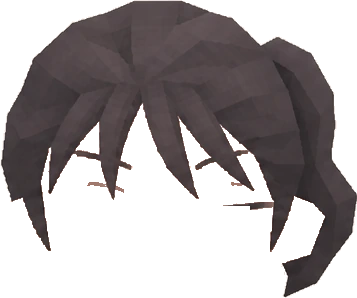
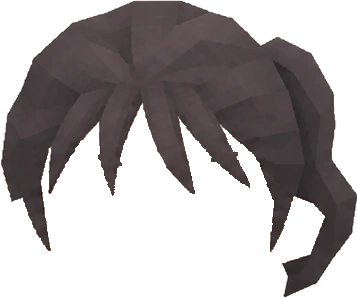
아바타 포니테일: 원본에서 딸려 온 눈썹·속눈썹 획 제거, 귀를 얼굴에 붙여 빈틈 없앰
Claude-Session: https://claude.ai/code/session_016dqJdoQPdKansAm1JAikyV

diff --git a/memory-garden/js/avatar.js b/memory-garden/js/avatar.js
@@ -11,6 +11,8 @@ const LAYERS = {
   blush_g: [111, 267, 206, 31, 156.7, "#c38e84"],
   bottom_b: [87, 535, 247, 276, 81.2, "#4f524f"], bottom_g: [100, 535, 226, 110, 69.5, "#49424c"], bottom_s: [110, 535, 200, 134, 172.8, "#c2a695"],
   braids_g: [46, 273, 319, 259, 126.3, "#8c7876"], ears: [42, 216, 333, 69, 187.9, "#dcb19d"],
+  // 포니테일은 원래 얼굴이 넓은 캐릭터라 공용 얼굴 옆에 틈이 생겨요. 같은 귀 그림을 좌우로 나눠 9px씩 안쪽에 붙여요.
+  ears_pl: [51, 216, 168, 69, 187.9, "#dcb19d"], ears_pr: [201, 216, 165, 69, 187.9, "#dcb19d"],
   eyes_b: [111, 223, 207, 59, 64.3, "#493d3c"], eyes_g: [108, 209, 209, 73, 69.5, "#4f4141"], eyes_s: [105, 184, 211, 98, 73.4, "#474b47"],
   face: [91, 80, 241, 254, 211.0, "#ecc9c0"],
   hair_b: [34, 12, 342, 312, 74.2, "#524647"], hair_g: [38, 22, 333, 260, 139.4, "#998585"], hair_s: [34, 12, 347, 339, 123.5, "#7d7b75"],
@@ -20,7 +22,7 @@ const LAYERS = {
   shoes_b: [98, 751, 231, 60, 80.9, "#554e51"], shoes_g: [99, 627, 216, 183, 150.1, "#a79085"], shoes_s: [107, 610, 222, 201, 127.3, "#8a7a79"],
   top_b: [77, 309, 266, 278, 100.8, "#6b6066"], top_g: [66, 311, 293, 276, 139.6, "#988391"], top_s: [51, 321, 323, 278, 130.9, "#88817c"],
   // 2026-11-24 신규 파츠 12종: 리마가 만든 원본 그림(Figma MG3·5 신규 파츠 카탈로그)에서 그대로 잘라 낸 것
-  hair_wave: [21, 26, 372, 298, 130.4, "#927b7e"], hair_pony: [50, 23, 357, 298, 71.9, "#4f4446"], hair_curly: [27, 20, 361, 251, 120.8, "#7d776f"],
+  hair_wave: [21, 26, 372, 298, 130.4, "#927b7e"], hair_pony: [50, 23, 357, 298, 71.4, "#4e4446"], hair_curly: [27, 20, 361, 251, 120.8, "#7d776f"],
   top_vest: [62, 307, 293, 270, 154.0, "#ab9393"], top_sweat: [76, 320, 269, 253, 97.0, "#6b5c5b"], top_check: [51, 318, 319, 266, 137.6, "#93867e"],
   bottom_denim: [95, 563, 229, 200, 111.4, "#706d74"], bottom_susp: [101, 328, 219, 377, 134.7, "#978175"], bottom_long: [64, 570, 295, 187, 109.2, "#796868"],
   shoes_mary: [110, 731, 196, 79, 127.8, "#907973"], shoes_high: [105, 709, 211, 102, 153.4, "#a8948a"], shoes_fur: [108, 719, 206, 91, 136.6, "#998378"]
@@ -42,7 +44,7 @@ export const PARTS = {
     { id: "spiky", name: "삐죽 앞머리", layers: ["hair_b"] },
     { id: "soft", name: "흐트러진 숏컷", layers: ["hair_s"] },
     { id: "wave", name: "웨이브 단발", layers: ["hair_wave"] },
-    { id: "pony", name: "포니테일", layers: ["hair_pony"] },
+    { id: "pony", name: "포니테일", layers: ["hair_pony"], ears: ["ears_pl", "ears_pr"] },
     { id: "curly", name: "짧은 곱슬", layers: ["hair_curly"] }
   ],
   eyes: [
@@ -122,7 +124,7 @@ let loading = null;
 export function supported() {
   try { const c = document.createElement("canvas"); return !!(c.getContext && c.getContext("2d")); } catch (e) { return false; }
 }
-const ASSET_V = "20261126b";
+const ASSET_V = "20261127a";
 export function load() {
   if (loading) return loading;
   const base = new URL("../assets/avatar/", import.meta.url);
@@ -174,7 +176,7 @@ function stack(look) {
   out.push(["face", L.skin], [pick("eyes", L.eyes).layer], [pick("mouth", L.mouth).layer]);
   if (L.blush) out.push(["blush_g"]);
   hair.layers.forEach(n => out.push([n, L.hairColor]));
-  out.push(["ears", L.skin]);
+  (hair.ears || ["ears"]).forEach(n => out.push([n, L.skin]));
   return out;
 }
 // 프레임 좌표의 사각형(src)을 ctx의 (dx, dy, scale) 위치에 그려요
